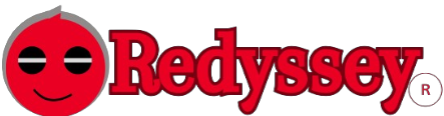
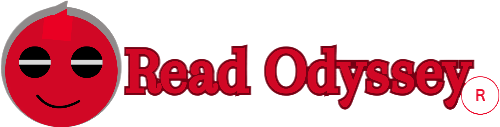
final push

diff --git a/frontend/src/components/CommunityGuidlines/ShowCommunityGuidelinesMessage.js b/frontend/src/components/CommunityGuidlines/ShowCommunityGuidelinesMessage.js
@@ -187,33 +187,33 @@ function ShowCommunityGuidelinesMessage() {
                   </div>
                   <div className="row">
                     <div className="card border-0 col-md-12 offset-md-1 text-center" style={{ backgroundColor: '#dfd4d4ad' }}>
-                      <h1><strong>Welcome to Redyssey!</strong></h1>
+                      <h1><strong>Welcome to Read Odyssey!</strong></h1>
                       <p>
         <strong>Discover the World Through Travel Reviews</strong>
       </p>
       <p>
-        Redyssey is not just a platform; it's your gateway to a world of travel experiences. Whether you're looking for dream destinations, just browsing or currently at travel, Redyssey is here to connect you with the heartbeat of travel.
+        Read Odyssey is not just a platform; it's your gateway to a world of travel experiences. Whether you're looking for dream destinations, just browsing or currently at travel, Read Odyssey is here to connect you with the heartbeat of travel.
       </p>
-      <h2>What Sets Redyssey Apart?</h2>
+      <h2>What Sets Read Odyssey Apart?</h2>
       <p>
         <span role="img" aria-label="Globe">🌍</span> <strong>Authentic Reviews:</strong> Our community of passionate travelers shares honest and authentic reviews, ensuring you get the real scoop on destinations, accommodations, and adventures.
       </p>
       <p>
-        <span role="img" aria-label="Airplane">✈</span> <strong>Explore Hidden Gems:</strong> Uncover off-the-beaten-path destinations and hidden gems suggested by fellow Redyssey explorers. Say goodbye to the ordinary, and embrace the extraordinary.
+        <span role="img" aria-label="Airplane">✈</span> <strong>Explore Hidden Gems:</strong> Uncover off-the-beaten-path destinations and hidden gems suggested by fellow Read Odyssey explorers. Say goodbye to the ordinary, and embrace the extraordinary.
       </p>
       <p>
-        <span role="img" aria-label="Handshake">🤝</span> <strong>Connect with Travel Enthusiasts:</strong> Redyssey isn't just about reviews; it's about building a community of like-minded individuals who share a love for exploration. Connect, engage, and swap travel stories with fellow adventurers.
+        <span role="img" aria-label="Handshake">🤝</span> <strong>Connect with Travel Enthusiasts:</strong> Read Odyssey isn't just about reviews; it's about building a community of like-minded individuals who share a love for exploration. Connect, engage, and swap travel stories with fellow adventurers.
       </p>
       <h2>Your Journey Starts Here</h2>
       <p>
-        Embark on a journey of discovery with Redyssey. From breathtaking landscapes to bustling cityscapes, our platform is your digital compass for navigating the vast realm of travel possibilities.
+        Embark on a journey of discovery with Read Odyssey. From breathtaking landscapes to bustling cityscapes, our platform is your digital compass for navigating the vast realm of travel possibilities.
       </p>
       <p>
-        Join Redyssey today and let the adventure begin!
+        Join Read Odyssey today and let the adventure begin!
       </p>
-                      <h1><strong>Redyssey Community Guidlines</strong></h1>
+                      <h1><strong>Read Odyssey Community Guidlines</strong></h1>
                       <p>
-        Welcome to the Redyssey community! To ensure a positive and respectful environment for all our members, we have established these community guidelines. Please read and adhere to them when participating in discussions, posting content, or interacting with others on Redyssey.
+        Welcome to the Read Odyssey community! To ensure a positive and respectful environment for all our members, we have established these community guidelines. Please read and adhere to them when participating in discussions, posting content, or interacting with others on Read Odyssey.
       </p>
       <h2>1. Be Respectful</h2>
       <p>
@@ -240,7 +240,7 @@ function ShowCommunityGuidelinesMessage() {
         If you come across content or behavior that violates these guidelines, please report it to the moderators. We rely on the community to help maintain a safe and enjoyable environment for everyone.
       </p>
       <p>
-        By following these guidelines, you contribute to creating a vibrant and respectful community on Redyssey. Thank you for being a valued member!
+        By following these guidelines, you contribute to creating a vibrant and respectful community on Read Odyssey. Thank you for being a valued member!
       </p>
                     </div>
                   </div>

diff --git a/frontend/src/components/Navbar/UserNavbar.js b/frontend/src/components/Navbar/UserNavbar.js
@@ -73,8 +73,8 @@ function UserNavbar({ onSearch }) {
                 src={logoSmall}
                 className="d-inline-block ml-1" // Add a left margin
                 id="logoNavbar"
-                width="150"
-                height="35"
+                width="200"
+                height="50"
                 alt="Logo Small"
               />
             </Navbar.Brand>
@@ -146,19 +146,19 @@ function UserNavbar({ onSearch }) {
                       Logout
                     </NavDropdown.Item>
                     <LinkContainer to="/community-guidelines">
-            <NavDropdown.Item>
-              Community Guidelines
-            </NavDropdown.Item>
-          </LinkContainer>
-                  </NavDropdown>
-                ) : (
-                  <LinkContainer to="/login">
-                    <Nav.Link>
-                      <i className="fas fa-user"></i>
-                      &nbsp;&nbsp;Login
-                    </Nav.Link>
+                    <NavDropdown.Item>
+                      Community Guidelines
+                    </NavDropdown.Item>
                   </LinkContainer>
-                )}
+                          </NavDropdown>
+                        ) : (
+                          <LinkContainer to="/login">
+                            <Nav.Link>
+                              <i className="fas fa-user"></i>
+                              &nbsp;&nbsp;Login
+                            </Nav.Link>
+                          </LinkContainer>
+                        )}
               </button>
             </li>
           </ul>

diff --git a/frontend/src/components/SideBar/HomeSubSideBar.js b/frontend/src/components/SideBar/HomeSubSideBar.js
@@ -19,7 +19,7 @@ function HomeSubSideBar() {
 
             <div class="row pt-3 ps-3" id="subribbitSidebarDescription">
                 <div> <i class="fas fa-info-circle"></i> &nbsp; About community </div>
-                <div>r/home is the default community of Redyssey. Click on <b><Link to="/explore" id="homeSubSideBarExploreLink">Search Post</Link></b> button on the navigation bar to explore posts from various communities.</div>
+                <div>r/home is the default community of Read Odyssey. Click on <b><Link to="/explore" id="homeSubSideBarExploreLink">Search Post</Link></b> button on the navigation bar to explore posts from various communities.</div>
                 <br /> <br />
             </div>
 

diff --git a/backend/base/templates/user-registered.html b/backend/base/templates/user-registered.html
@@ -1,6 +1,6 @@
 {% extends 'default-template.html' %} {% block child %}
 <div>
-  Welcome to Redyssey, {{username}}! By creating an account, you can now access
+  Welcome to Read Odyssey, {{username}}! By creating an account, you can now access
   features limited to authenticated users such as creating posts, joining
   communities and more. Enjoy!.
 </div>

diff --git a/frontend/public/index.html b/frontend/public/index.html
@@ -46,7 +46,7 @@
       href="https://cdnjs.cloudflare.com/ajax/libs/font-awesome/5.15.1/css/all.min.css"
     />
 
-    <title>Redyssey: Travel & Review Forum</title>
+    <title>Read Odyssey: Travel & Review Forum</title>
   </head>
   <body>
     <noscript>You need to enable JavaScript to run this app.</noscript>

diff --git a/frontend/src/components/Posts/CreatePost.js b/frontend/src/components/Posts/CreatePost.js
@@ -103,6 +103,7 @@ function CreatePost() {
     setEnteredLocation(locationURL);
   };
 
+
   const submitHandler = (e) => {
     e.preventDefault();
   

diff --git a/frontend/src/App.css b/frontend/src/App.css
@@ -1102,4 +1102,3 @@ a.footer__socials--link svg {
 }
 
 
-

diff --git a/backend/base/modules/Auth/Api/Actions/RegisterUserAction.py b/backend/base/modules/Auth/Api/Actions/RegisterUserAction.py
@@ -6,8 +6,8 @@ from django.contrib.auth.hashers import make_password
 from base.mail.AuthMail import userRegistered
 
 def sendNotification(user):
-    title = 'Welcome to Redyssey!'
-    text = 'Congratulations on creating your account, ' + user.username + '! You can now access user only features such as creating posts, joining subredyssey, and more. Enjoy.'
+    title = 'Welcome to Read Odyssey!'
+    text = 'Congratulations on creating your account, ' + user.username + '! You can now access user only features such as creating posts, joining subRead Odyssey, and more. Enjoy.'
     NotifyUser.send(user, title, text)
 
 def register(request):

diff --git a/backend/base/mail/AuthMail.py b/backend/base/mail/AuthMail.py
@@ -7,7 +7,7 @@ def userRegistered(username, to):
     html_message = render_to_string('user-registered.html', {'username': username})
     text_content = strip_tags(html_message)
     send_mail(
-        'Welcome to Redyssey',
+        'Welcome to Read Odyssey',
         text_content,
         Utilities.get.DEFAULT_APP_NAME.value,
         [to],

diff --git a/backend/base/enums/Utilities.py b/backend/base/enums/Utilities.py
@@ -1,5 +1,5 @@
 from enum import Enum
 
 class get(Enum):
-    DEFAULT_APP_NAME  = 'Redyssey'
+    DEFAULT_APP_NAME  = 'Read Odyssey'
     FRONTEND_URL      = 'http://localhost:3000/'

diff --git a/backend/manage.py b/backend/manage.py
@@ -22,3 +22,7 @@ def main():
 
 if __name__ == '__main__':
     main()
+
+
+
+
